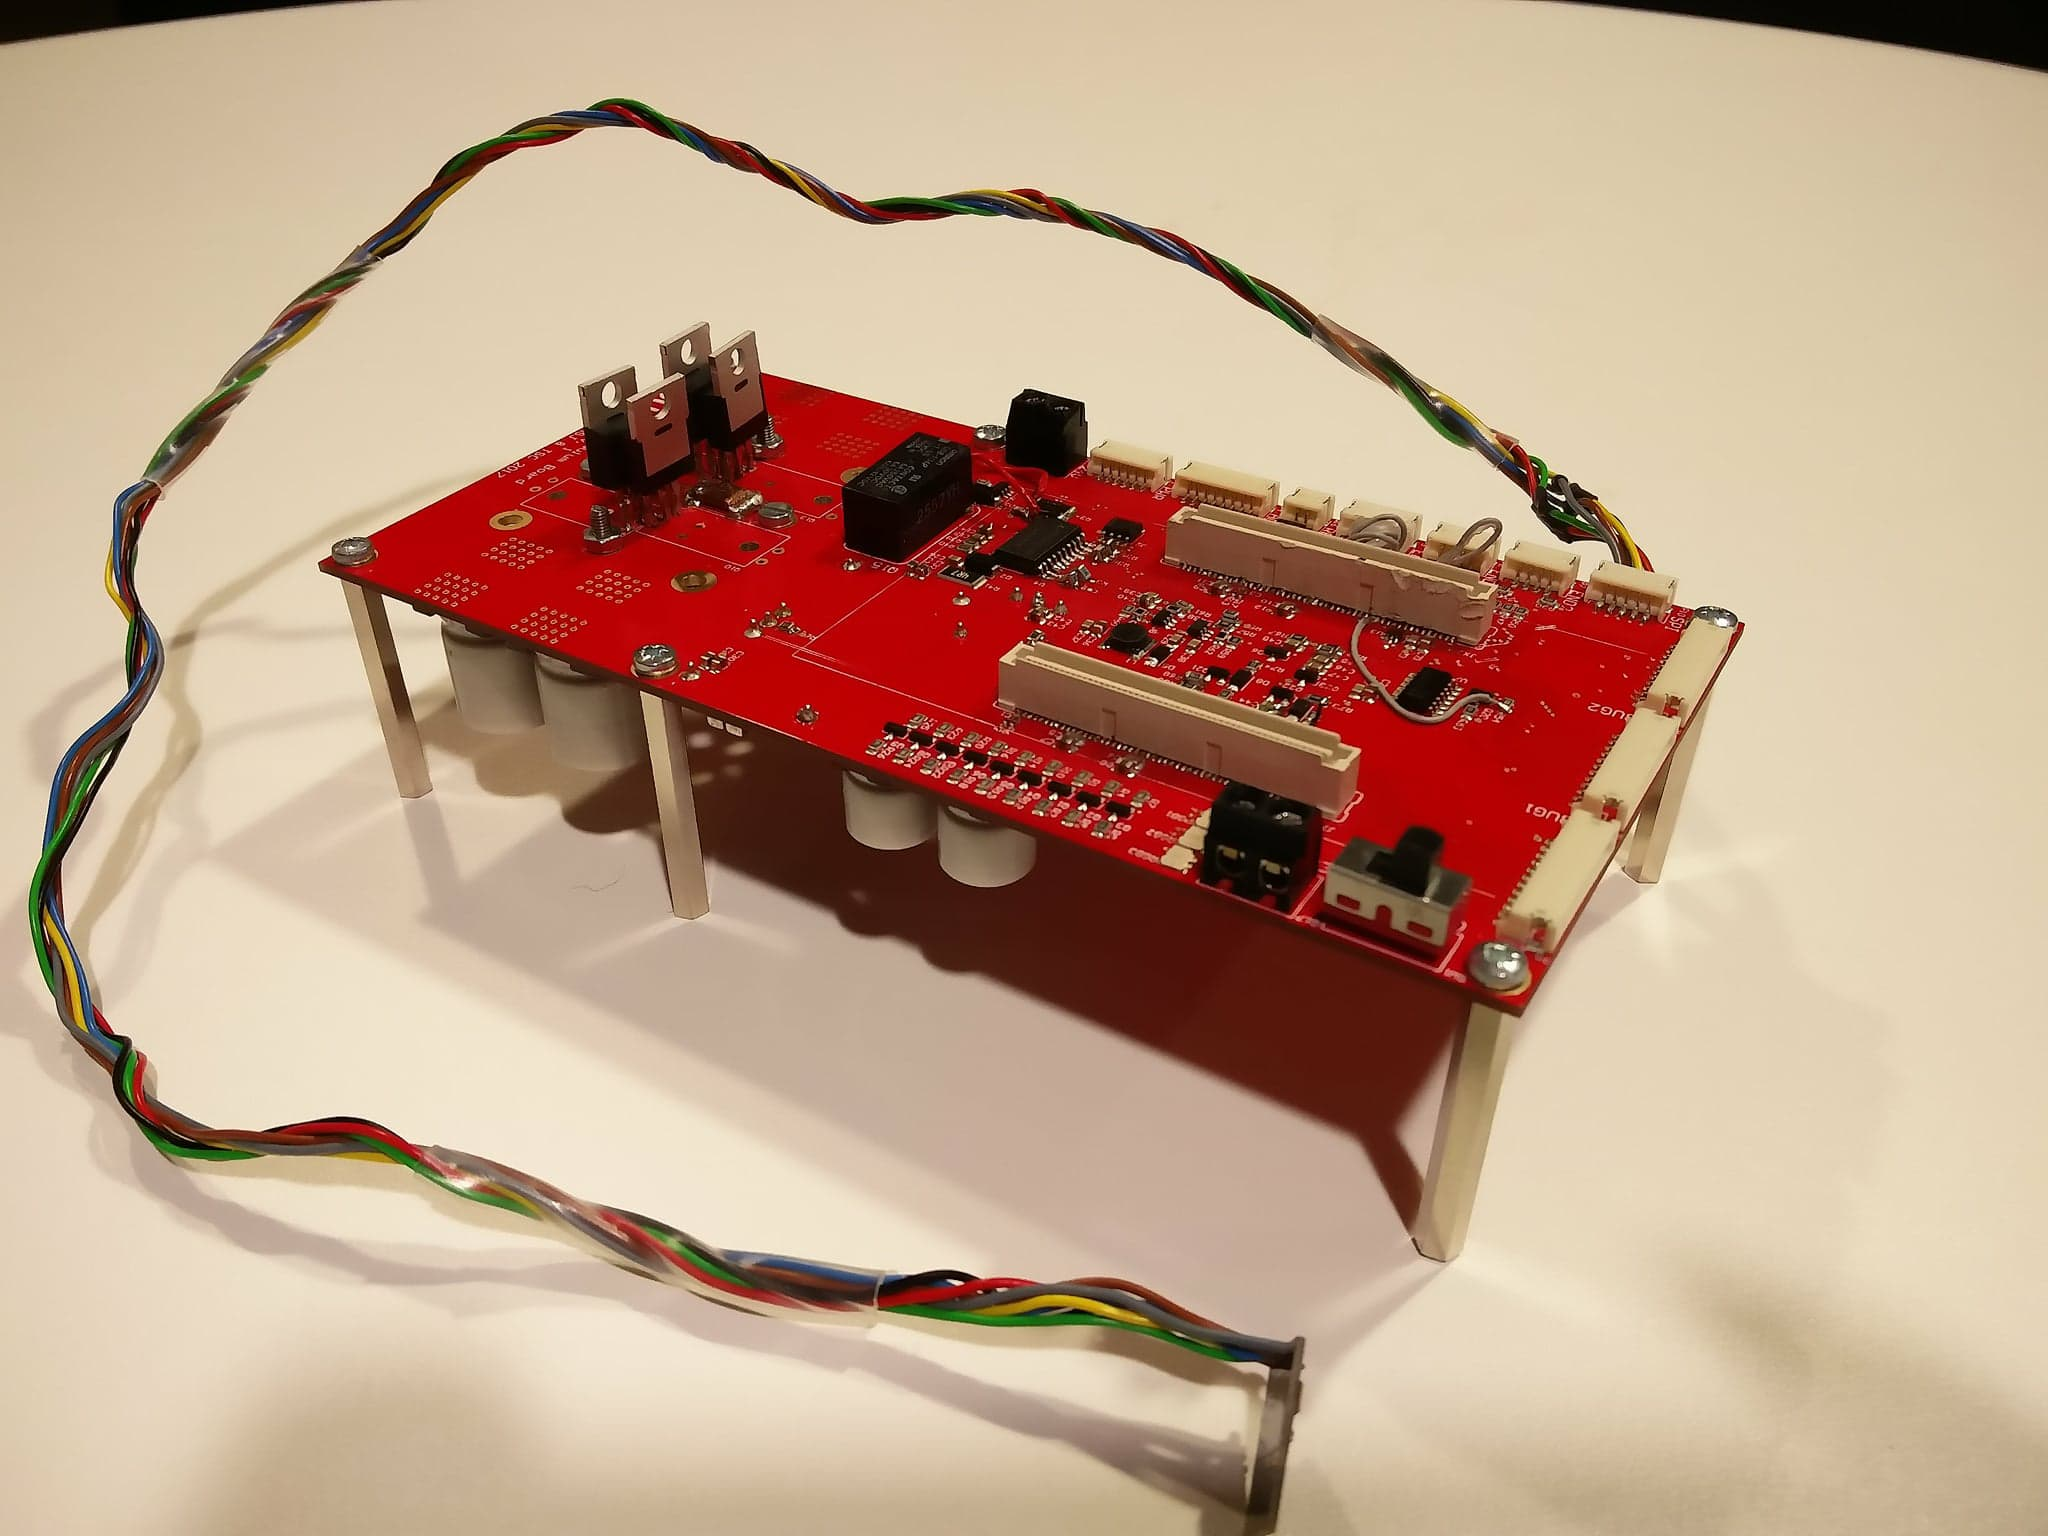
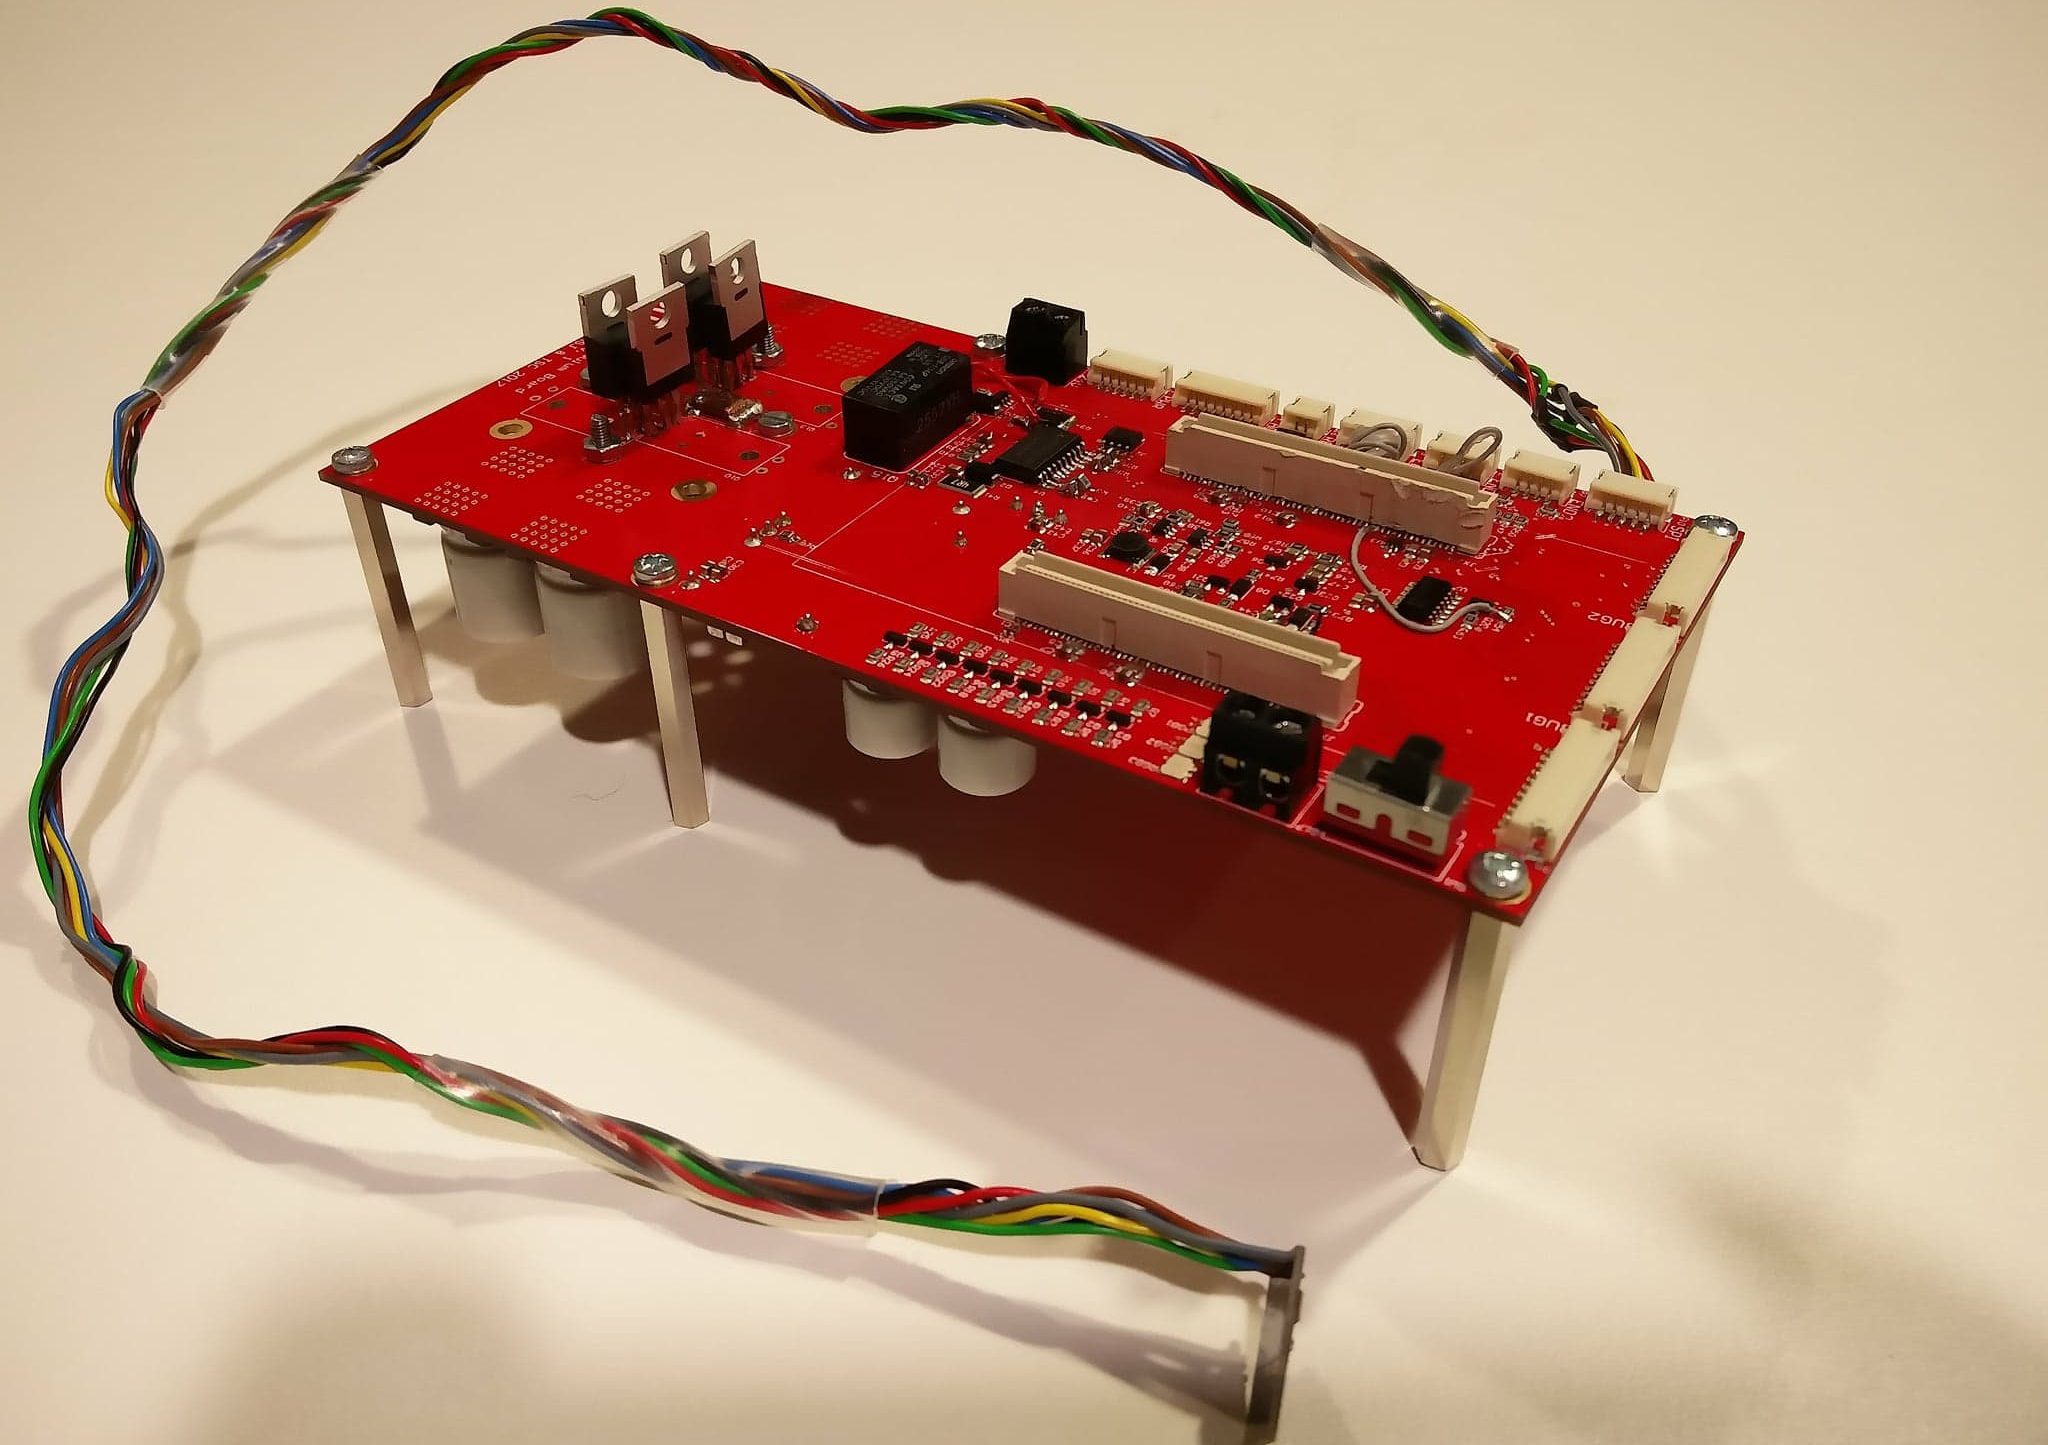
made A LOT

diff --git a/report/appendix/model_development.tex b/report/appendix/model_development.tex
@@ -21,8 +21,6 @@ For convenience the two pendulums will be referred to as $p_1$ and $p_2$ where $
 	\label{fig:doublependulum}
 \end{figure}
 
-\mikkel{Maybe the illustration needs to be changed in order properly show the positive direction of $\theta_2$ }
-
 Equations should be developed such that, given an initial state, the position and subsequent movement can be derived from them.
 This can be achieved using the Euler-Lagrange differential equations.
 These will be found for this system throughout the remainder of this section.
@@ -50,7 +48,6 @@ In order to calculate the Euler-Lagrange diff. eq. it is necessary to first dete
 \end{equation}
 Where $E_k$ is the kinetic energy of the system and $E_p$, the potential energy.
 The derivation of $E_p$:
-\mikkel{g being the standard acceleration due to gravity}
 \begin{align}
 	E_p &= m_1 g y_1 + m_2 g y_2\\
 		&= -m_1 g l_1 \cos{\theta_1} - m_2 g l_1 \cos{\theta_1} - m_2 g l_2 \cos{\theta_2}\\
@@ -83,7 +80,6 @@ Similarly:
 	\end{split}
 \end{align}
 Isolating cosine and sine from the terms pairwise, 1 and 4, 2 and 5, 3 and 6, yields:
-\mikkel{from equation 20? add in text}
 \begin{align}
 	\begin{split}
 		v_2^2&=(\cos{\theta_1}^2+\sin{\theta_1}^2)l_1^2\dot\theta_1^2+(\cos{\theta_2}^2+\sin{\theta_2}^2)l_2^2\dot\theta_2^2\\
@@ -133,7 +129,6 @@ The three terms $\frac{\partial \mathcal{L}}{\partial \dot\theta}$,$\frac{d}{dt}
 	\end{split}\\
 	\frac{\partial \mathcal{L}}{\partial \theta_1} &= -m_2l_1l_2\dot\theta_1\dot\theta_2\sin(\theta_1-\theta_2)-(m_1+m_2)l_1g\sin{\theta_1}\\
 \end{align}
-\mikkel{Entering the x,x,x equations yields the first the Euler-Lagrange diff bla bla.}
 \begin{align}
 	\begin{split}
 		0&=(m_1+m_2)l_1\ddot\theta_1+m_2l_2\ddot\theta_2\cos{(\theta_1-\theta_2)}\\
@@ -151,14 +146,9 @@ And $p_2$:
 	\frac{\partial \mathcal{L}}{\partial \theta_2} &=m_2l_1l_2\dot\theta_1\dot\theta_2\sin{(\theta_1-\theta_2)}-m_2l_2g\sin{\theta_2}\\
 	\label{eq:part}
 \end{align}
-\mikkel{Entering the x,x,x equations yields the second the Euler-Lagrange diff bla bla.}
 \begin{align}
 	\begin{split}
 		0&=m_2l_2\ddot\theta_2+m_2l_1\ddot\theta_1\cos{(\theta_1-\theta_2)}\\
 		&\qquad-m_2l_1\dot\theta_1^2\sin{(\theta_1-\theta_2)}+m_2g\sin{\theta_2}
 	\end{split}
 \end{align}
-\thomas{eq. \ref{eq:part} has a minus in front of the first term according to our calculations. Determine why.}
-% subsection simple_double_pendulum (end)
-
-% section model_development (end)

diff --git a/report/sections/controller_board_implementation_and_verification.tex b/report/sections/controller_board_implementation_and_verification.tex
@@ -93,7 +93,7 @@ Component names are referenced to the controller board schematics found in appen
 \begin{figure}[h]
 	\centering
 	\includegraphics[width=.75\linewidth]{graphics/controllerboard_real}
-	\caption{Image of the controller board}
+	\caption{Picture of the implemented controller board.}
 	\label{fig:controller_board_img}
 \end{figure}
 \subsection{Verification} % (fold)
@@ -394,19 +394,22 @@ All measured values are within the values specified in the requirement specifica
 
 \subsubsection{Verification of: Requirement \ref{enum:voltage_transients}} % (fold)
 \label{ssub:requirement_enum:voltage_transients}
-This requirement states that
+This requirement states that voltage transients on voltage rails should be minimized.
 
 \paragraph{Test}~\\
+The voltage across the H-bridge should be measured while driving the motor in order to detect voltage transients. 
 
 \paragraph{Conclusion}~\\
-\mikkel{Measure voltage transient on rails}
-\mikkel{Make simulation and write something here.}
-\mikkel{verify use of motor control}
+While conducting the test as described abobe it was not possible to detect any voltage transient due to the current draw by the motor.
+This is also as expected, because of the capacitor bank.
+The motor current and the current draw from the main power supply was measared while driving the motor.
+The measured waveforms are shown in figure \ref{fig:controllerboardv2_currents}.
+Here it can be seen that even though the motor current alternating the supply current is mostly DC.
 \begin{figure}[h]
 	\centering
     %\input{graphics/controllerboardv2_current_motor_supply.tex}
 	\caption[Measured supply and load currents.]{Measured supply and load currents while driving the motor using 50\% dutycycle on one channel and 0\% on the other.}
-	\label{fig:controllerboardv2_}
+	\label{fig:controllerboardv2_currents}
 \end{figure}
 
 \subsubsection{Verification of: Requirement \ref{enum:microzed_interface}} % (fold)

diff --git a/report/sections/system_analysis.tex b/report/sections/system_analysis.tex
@@ -3,7 +3,7 @@
 \thomas{Elaborate on cites}
 \thomas{point mass assumption}
 \thomas{insert paragraph on current mode control in SotA}
-
+\mikkel{refer to model development section. We gained knowledge by doing it. other papers also use it}
 The system developed throughout this report is a proposal made by the project owner and developed by the authors.
 It is intended as a learning platform for students to experiment with and gain understanding of underactuated systems.
 An underactuated system is a system with more DoF (degrees of freedom) than actuators.
